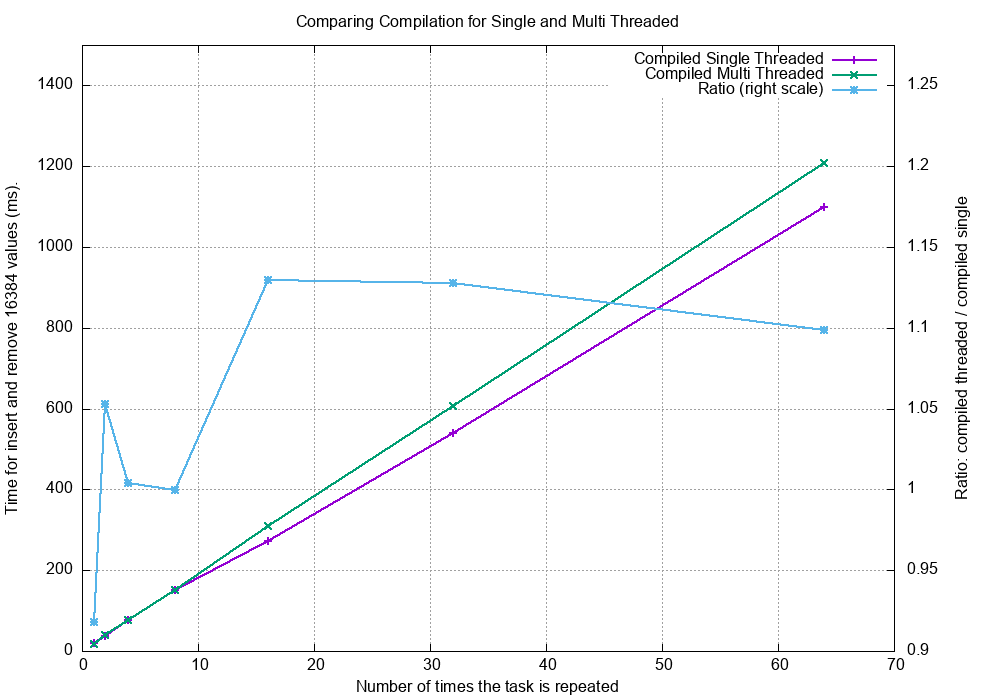
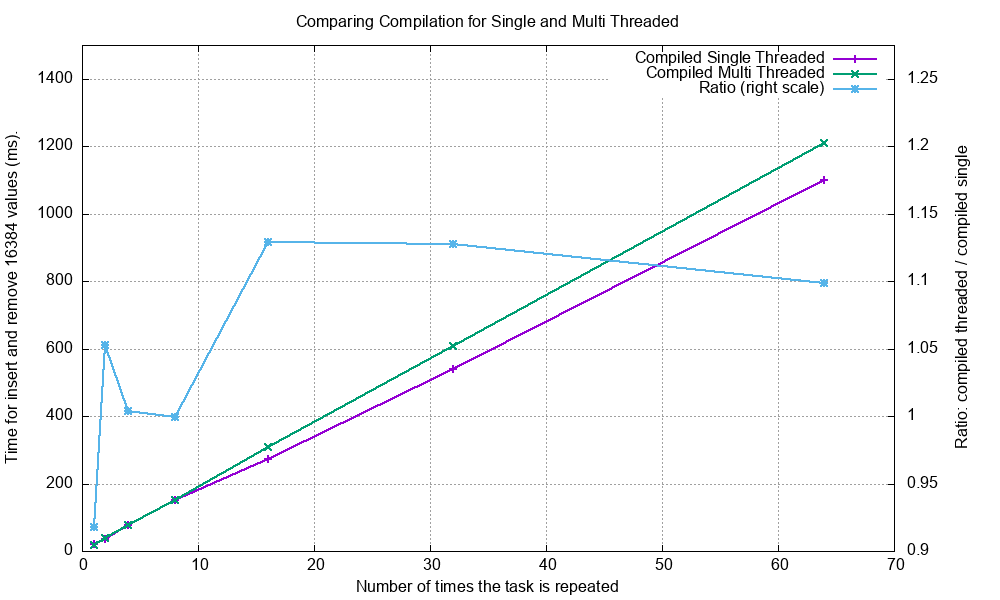
Documentation: Improve plot sizes, standardise on 1000x600 and in the .rst set :width: 500

diff --git a/docs/source/performance.rst b/docs/source/performance.rst
@@ -83,6 +83,9 @@ The test functions are in ``src/cpp/test/test_performance.cpp``:
 
 .. image::
     plots/images/perf_test_double_insert_remove_value.png
+    :width: 500
+    :align: center
+    :alt: Double Performance
 
 ..
     :width: 640
@@ -115,6 +118,9 @@ The test functions are in ``src/cpp/test/test_performance.cpp``:
 
 .. image::
     plots/images/perf_test_string_insert_remove_value.png
+    :width: 500
+    :align: center
+    :alt: String Performance
 
 Notes:
 
@@ -153,6 +159,9 @@ The lines show the minimum values and the legend shows the log(n) behaviour.
 
 .. image::
     plots/images/perf_test_double_at_has_index.png
+    :width: 500
+    :align: center
+    :alt: Double at/has/index Performance
 
 This shows good O(log(n))'ish type behaviour.
 
@@ -168,6 +177,9 @@ The line shows a very approximate fir to the minimum recorded value of around 0.
 
 .. image::
     plots/images/perf_roll_med_by_win_size.png
+    :width: 500
+    :align: center
+    :alt: Median by Window Size Performance
 
 The test function is ``perf_roll_med_by_win_size()`` in ``src/cpp/test/test_performance.cpp``.
 
@@ -242,6 +254,9 @@ The test name is ``perf_size_of()``.
 
 .. image::
     plots/images/perf_size_of.png
+    :width: 500
+    :align: center
+    :alt: sizeof()
 
 ---------------------------------------------
 Height Distribution
@@ -253,6 +268,9 @@ The tests is ``perf_test_node_height_growth()`` in ``src/cpp/test/test_performan
 
 .. image::
     plots/images/perf_test_node_height_growth.png
+    :width: 500
+    :align: center
+    :alt: Node Height Growth
 
 .. _performance-biased-coins-label:
 
@@ -294,6 +312,9 @@ coin toss being heads. The time cost is normalised to ``p(0.5)``.
 
 .. image::
     plots/images/biased_coin_effect.png
+    :width: 500
+    :align: center
+    :alt: Biased Coin
 
 Reducing ``p()`` reduces the number of coarser linked lists that help speed up the search so it is expected that the
 performance would deteriorate.
@@ -319,6 +340,9 @@ In practice a reduction of ``p()`` provides some small space improvement.
 
 .. image::
     plots/images/biased_coin_effect_size_of.png
+    :width: 500
+    :align: center
+    :alt: Biased Coin sizeof()
 
 If the SkipList was highly optimised for rolling median operations it might be worth experimenting with ``p(0.25)``
 or even ``p(0.125)`` and evaluate the time/space requirements but otherwise there seems no reason, in the general case,
@@ -397,6 +421,9 @@ The right Y axis is the ratio: time with ``-DSKIPLIST_THREAD_SUPPORT`` / time wi
 
 .. image::
     plots/images/perf_cpp_threaded_vs_single.png
+    :width: 500
+    :align: center
+    :alt: Multi Threaded Performance
 
 The overhead of using ``-DSKIPLIST_THREAD_SUPPORT`` is about 0% to 15%.
 
@@ -422,6 +449,9 @@ threads contending for the SkipList, also shown is the same for a single threade
 
 .. image::
     plots/images/test_perf_sim_rolling_median_multi_thread_multi.png
+    :width: 500
+    :align: center
+    :alt: Multi-threaded Rolling Median Performance
 
 ====================================
 Python Performance Tests

diff --git a/docs/source/rolling_median.rst b/docs/source/rolling_median.rst
@@ -434,15 +434,23 @@ The rolling median window is 21.
 Columns: 16
 ^^^^^^^^^^^^
 
+In this test a 16 column array is created with up to 8,388,608 rows.
+This is up to 134,217,728 entries at 8 bytes a float this is 1,073,741,824 bytes (1GB) in total.
 Running this on 16 column arrays with 1m rows with processes from 1 to 16 gives the following execution times.
 
 .. image::
     plots/images/perf_rolling_median_shared_memory_cols_16.png
+    :width: 500
+    :align: center
+    :alt: Rolling Median Performance, 16 Columns
 
 Comparing the **speed** of execution compared to a single process gives:
 
 .. image::
     plots/images/perf_rolling_median_shared_memory_ratio_cols_16.png
+    :width: 500
+    :align: center
+    :alt: Rolling Median Relative Performance, 16 Columns
 
 Clearly there is some overhead so it is not really worth doing this for less that 10,000 rows.
 The number of processes equal to the number of CPUs is optimum, twice that *might* give a *small* advantage.
@@ -450,30 +458,46 @@ The number of processes equal to the number of CPUs is optimum, twice that *migh
 Columns: 1024
 ^^^^^^^^^^^^^^
 
+In this test a 1024 column array is created with up to 131,072 rows.
+This is up to 134,217,728 entries at 8 bytes a float this is 1,073,741,824 bytes (1GB) in total.
 Running this on 1024 column arrays with up to 131,072 rows with processes from 1 to 16 gives the following execution times.
 
 .. image::
     plots/images/perf_rolling_median_shared_memory_cols_1024.png
+    :width: 500
+    :align: center
+    :alt: Rolling Median Performance, 1024 Columns
 
 Comparing the **speed** of execution compared to a single process gives:
 
 .. image::
     plots/images/perf_rolling_median_shared_memory_ratio_cols_1024.png
+    :width: 500
+    :align: center
+    :alt: Rolling Median Relative Performance, 1024 Columns
 
 Clearly there is some overhead so it is not really worth doing this for less that 1,000 rows or so.
 
 Columns: 65536
 ^^^^^^^^^^^^^^
 
+In this test a 65,536 column array is created with up to 4096 rows.
+This is up to 268,435,456 entries at 8 bytes a float this is 2,147,483,648 bytes (2GB) in total.
 Running this on 65,536 column arrays with up to 4096 rows with processes from 1 to 16 gives the following execution times.
 
 .. image::
     plots/images/perf_rolling_median_shared_memory_cols_65536.png
+    :width: 500
+    :align: center
+    :alt: Rolling Median Performance, 65536 Columns
 
 Comparing the **speed** of execution compared to a single process gives:
 
 .. image::
     plots/images/perf_rolling_median_shared_memory_ratio_cols_65536.png
+    :width: 500
+    :align: center
+    :alt: Rolling Median Relative Performance, 65536 Columns
 
 The overhead, by number of columns is very low.
 
